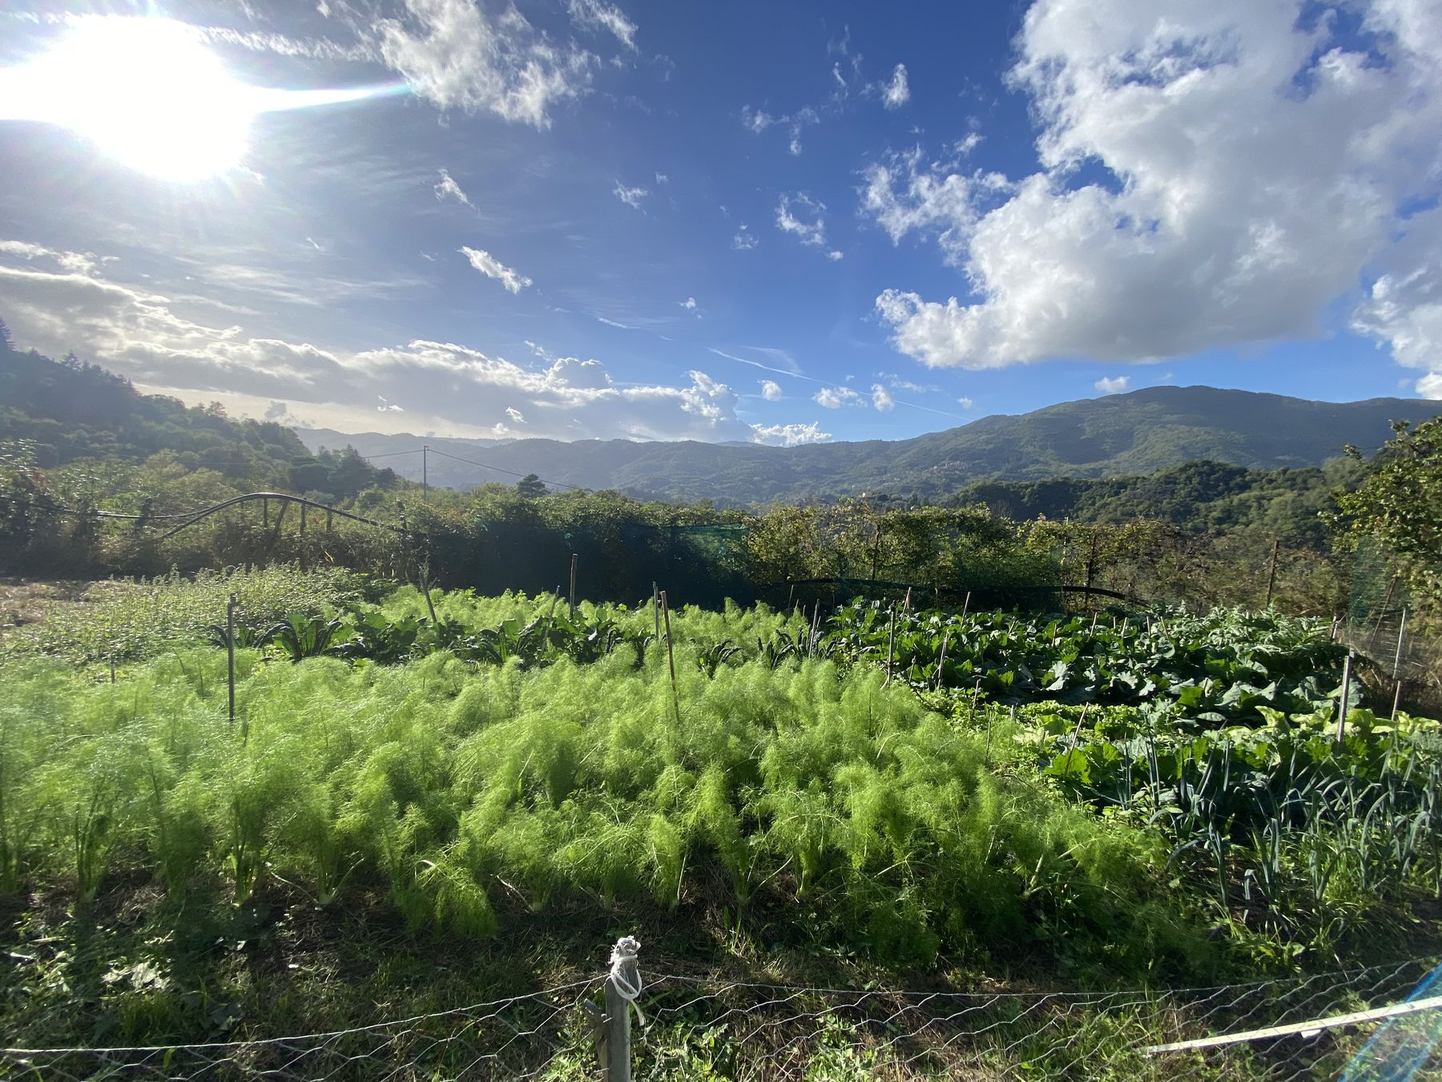
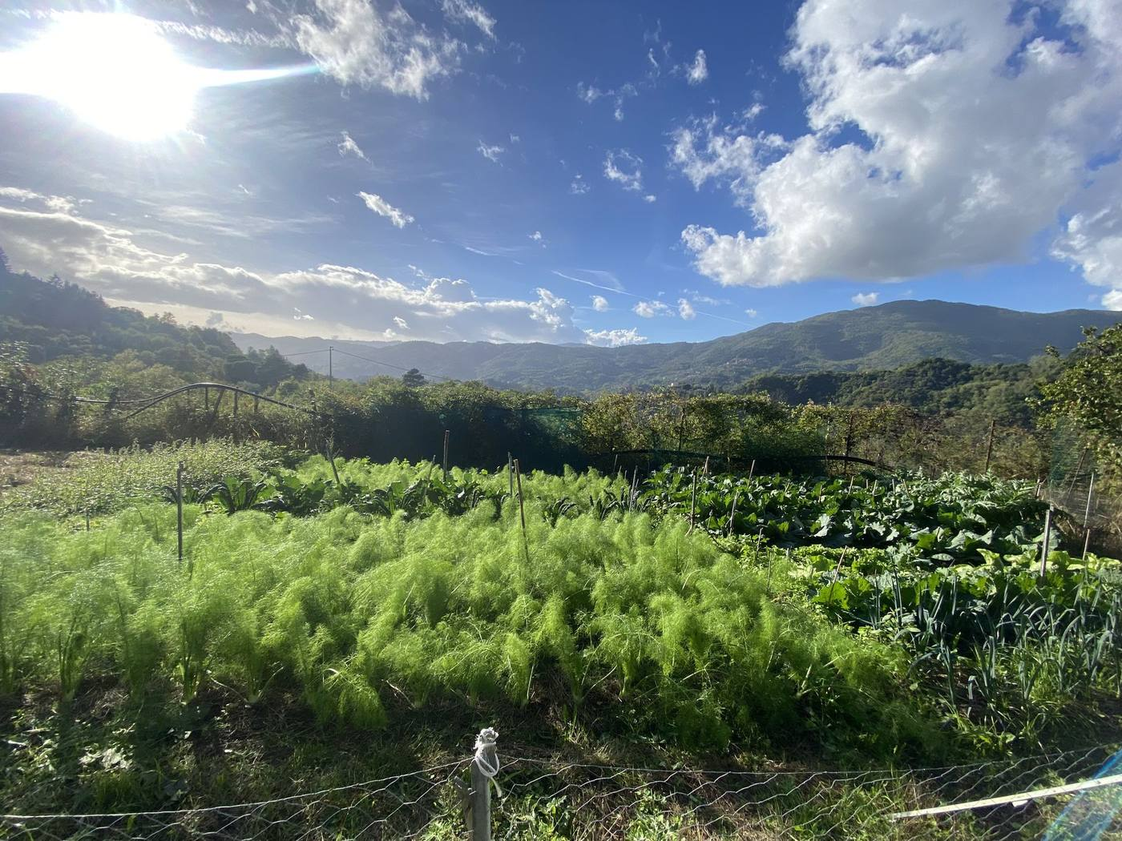
SEO e AEO: titoli e descrizioni più corti, anteprime con foto, nuove FAQ, numero WhatsApp
- Titoli entro ~60 caratteri e descrizioni entro ~150 su tutte le pagine
- og:image e twitter:card con la foto di testata di ogni pagina
- Home: titolo principale con il nome della fattoria; scheda LocalBusiness
  con logo, immagine e telefono
- Ordina: "Come funzionerà l'ordine" e 3 nuove FAQ (fondatori, visite,
  avvio della vendita), anche nei dati strutturati
- Contatti: sottotitolo "Come raggiungerci"
- Numero WhatsApp reale (+39 339 436 0559) in tutti i link e nel modulo
- Sitemap con data aggiornata; foto più pesanti alleggerite

Claude-Session: https://claude.ai/code/session_014oYX42uEHMXXJDsaJcGgyV

diff --git a/ordina.html b/ordina.html
@@ -3,15 +3,18 @@
 <head>
     <meta charset="UTF-8">
     <meta name="viewport" content="width=device-width, initial-scale=1.0">
-    <title>Cassetta di verdura a km 0, presto disponibile | Fattoria Il Bosco D'Obaca, Vellano</title>
-    <meta name="description" content="La cassetta di verdura, frutta e uova della Fattoria Il Bosco D'Obaca sarà presto disponibile: come funzionerà l'ordine, ritiro a Vellano o consegna in zona, nessun abbonamento. Domande frequenti.">
+    <title>Cassetta dell'orto, presto disponibile | Il Bosco D'Obaca</title>
+    <meta name="description" content="La cassetta di verdura, frutta e uova sarà presto disponibile: come funzionerà l'ordine, ritiro a Vellano o consegna in zona. Domande frequenti.">
     <link rel="canonical" href="https://eleonoranardini27-oss.github.io/Fattoria-Il-bosco-D-Obaca-Web/ordina.html">
     <meta property="og:type" content="website">
     <meta property="og:locale" content="it_IT">
     <meta property="og:site_name" content="Fattoria Il Bosco D'Obaca">
-    <meta property="og:title" content="Cassetta di verdura a km 0, presto disponibile | Fattoria Il Bosco D'Obaca, Vellano">
-    <meta property="og:description" content="La cassetta di verdura, frutta e uova della Fattoria Il Bosco D'Obaca sarà presto disponibile: come funzionerà l'ordine, ritiro a Vellano o consegna in zona, nessun abbonamento. Domande frequenti.">
+    <meta property="og:title" content="Cassetta dell'orto, presto disponibile | Il Bosco D'Obaca">
+    <meta property="og:description" content="La cassetta di verdura, frutta e uova sarà presto disponibile: come funzionerà l'ordine, ritiro a Vellano o consegna in zona. Domande frequenti.">
     <meta property="og:url" content="https://eleonoranardini27-oss.github.io/Fattoria-Il-bosco-D-Obaca-Web/ordina.html">
+    <meta property="og:image" content="https://eleonoranardini27-oss.github.io/Fattoria-Il-bosco-D-Obaca-Web/immagini%20sito/castagne.jpg">
+    <meta property="og:image:alt" content="Ricci aperti con castagne mature sui rami del castagneto">
+    <meta name="twitter:card" content="summary_large_image">
 
     <!-- Google Fonts -->
     <link rel="preconnect" href="https://fonts.googleapis.com">
@@ -41,6 +44,30 @@
       "acceptedAnswer": {
         "@type": "Answer",
         "text": "Non ancora: stiamo avviando la fattoria e la cassetta sarà presto disponibile. Seguici sui social o sul canale WhatsApp per sapere quando apriremo gli ordini."
+      }
+    },
+    {
+      "@type": "Question",
+      "name": "Chi sono Eleonora e Valentin?",
+      "acceptedAnswer": {
+        "@type": "Answer",
+        "text": "Sono i fondatori della Fattoria Il Bosco D'Obaca: vivono e lavorano a Vellano, nel cuore della Svizzera Pesciatina, dove stanno costruendo da zero la loro realtà agricola, rigenerando la terra e recuperando un antico castagneto abbandonato."
+      }
+    },
+    {
+      "@type": "Question",
+      "name": "Si può visitare la fattoria?",
+      "acceptedAnswer": {
+        "@type": "Answer",
+        "text": "Non ancora: per ora la fattoria non è aperta alle visite. Seguici su Instagram e Facebook per sapere quando potrai venire a trovarci."
+      }
+    },
+    {
+      "@type": "Question",
+      "name": "Quando partirà la vendita?",
+      "acceptedAnswer": {
+        "@type": "Answer",
+        "text": "Stiamo avviando la fattoria e la vendita non è ancora partita. Per sapere quando partiremo seguici su Instagram e Facebook o scrivici su WhatsApp."
       }
     },
     {
@@ -176,13 +203,13 @@
                 <div class="ordine" id="modulo">
                     <div class="ordine-info">
                         <span class="eyebrow">Presto disponibile</span>
-                        <h2 class="h3">Ordina la tua Cassetta della Settimana</h2>
+                        <h2 class="h3">Come funzionerà l'ordine</h2>
                         <p>Quando apriremo gli ordini basterà compilare il modulo: premendo "Invia ordine" si aprirà WhatsApp con il messaggio già pronto. Per ora il modulo non è ancora attivo: scrivici su WhatsApp per essere avvisato.</p>
                         <ul>
                             <li><strong>Nessun vincolo o abbonamento:</strong> ordinerai solo quando ne hai bisogno.</li>
                             <li><strong>Pagamento flessibile:</strong> in contanti o digitale (Satispay/POS) al ritiro o alla consegna.</li>
                         </ul>
-                        <a href="https://wa.me/393000000000?text=Ciao%2C%20vorrei%20essere%20avvisato%20quando%20aprirete%20gli%20ordini%20della%20cassetta!" target="_blank" rel="noopener noreferrer" class="btn btn-bosco"><i class="fa-brands fa-whatsapp" aria-hidden="true"></i> Avvisami su WhatsApp</a>
+                        <a href="https://wa.me/393394360559?text=Ciao%2C%20vorrei%20essere%20avvisato%20quando%20aprirete%20gli%20ordini%20della%20cassetta!" target="_blank" rel="noopener noreferrer" class="btn btn-bosco"><i class="fa-brands fa-whatsapp" aria-hidden="true"></i> Avvisami su WhatsApp</a>
                     </div>
 
                     <form id="order-form" aria-label="Modulo d'ordine (non ancora attivo)">
@@ -229,6 +256,18 @@
                         <div class="faq-item">
                             <h3 class="h4">Posso già ordinare la cassetta?</h3>
                             <p>Non ancora: stiamo avviando la fattoria e la cassetta sarà presto disponibile. Seguici sui social o sul canale WhatsApp per sapere quando apriremo gli ordini.</p>
+                        </div>
+                        <div class="faq-item">
+                            <h3 class="h4">Chi sono Eleonora e Valentin?</h3>
+                            <p>Sono i fondatori della Fattoria Il Bosco D'Obaca: vivono e lavorano a Vellano, nel cuore della Svizzera Pesciatina, dove stanno costruendo da zero la loro realtà agricola, rigenerando la terra e recuperando un antico castagneto abbandonato.</p>
+                        </div>
+                        <div class="faq-item">
+                            <h3 class="h4">Si può visitare la fattoria?</h3>
+                            <p>Non ancora: per ora la fattoria non è aperta alle visite. Seguici su Instagram e Facebook per sapere quando potrai venire a trovarci.</p>
+                        </div>
+                        <div class="faq-item">
+                            <h3 class="h4">Quando partirà la vendita?</h3>
+                            <p>Stiamo avviando la fattoria e la vendita non è ancora partita. Per sapere quando partiremo seguici su Instagram e Facebook o scrivici su WhatsApp.</p>
                         </div>
                         <div class="faq-item">
                             <h3 class="h4">Cosa c'è nella cassetta?</h3>
@@ -293,7 +332,7 @@
                 <div class="footer-col">
                     <span class="label">Seguici</span>
                     <div class="footer-nav">
-                        <a href="https://wa.me/393000000000" target="_blank" rel="noopener noreferrer">WhatsApp</a>
+                        <a href="https://wa.me/393394360559" target="_blank" rel="noopener noreferrer">WhatsApp</a>
                         <a href="https://www.instagram.com/ilboscodobaca/" target="_blank" rel="noopener noreferrer">Instagram</a>
                         <a href="https://www.facebook.com/profile.php?id=61595419419267" target="_blank" rel="noopener noreferrer">Facebook</a>
                     </div>

diff --git a/index.html b/index.html
@@ -3,15 +3,18 @@
 <head>
     <meta charset="UTF-8">
     <meta name="viewport" content="width=device-width, initial-scale=1.0">
-    <title>Fattoria Il Bosco D'Obaca | Cassetta di verdura, frutta e uova a km 0 a Vellano (Pescia)</title>
-    <meta name="description" content="Fattoria a Vellano, nella Svizzera Pesciatina (Pescia, PT): ortaggi di stagione, frutta, more e uova colorate di galline allevate all'aperto. Cassetta settimanale presto disponibile, con ritiro in fattoria o consegna in zona.">
+    <title>Fattoria Il Bosco D'Obaca: orto e uova colorate a Vellano</title>
+    <meta name="description" content="Fattoria a Vellano, Svizzera Pesciatina (Pescia, PT): ortaggi di stagione, frutta, more e uova colorate. Cassetta settimanale presto disponibile.">
     <link rel="canonical" href="https://eleonoranardini27-oss.github.io/Fattoria-Il-bosco-D-Obaca-Web/">
     <meta property="og:type" content="website">
     <meta property="og:locale" content="it_IT">
     <meta property="og:site_name" content="Fattoria Il Bosco D'Obaca">
-    <meta property="og:title" content="Fattoria Il Bosco D'Obaca | Cassetta di verdura, frutta e uova a km 0 a Vellano (Pescia)">
-    <meta property="og:description" content="Fattoria a Vellano, nella Svizzera Pesciatina (Pescia, PT): ortaggi di stagione, frutta, more e uova colorate di galline allevate all'aperto. Cassetta settimanale presto disponibile, con ritiro in fattoria o consegna in zona.">
+    <meta property="og:title" content="Fattoria Il Bosco D'Obaca: orto e uova colorate a Vellano">
+    <meta property="og:description" content="Fattoria a Vellano, Svizzera Pesciatina (Pescia, PT): ortaggi di stagione, frutta, more e uova colorate. Cassetta settimanale presto disponibile.">
     <meta property="og:url" content="https://eleonoranardini27-oss.github.io/Fattoria-Il-bosco-D-Obaca-Web/">
+    <meta property="og:image" content="https://eleonoranardini27-oss.github.io/Fattoria-Il-bosco-D-Obaca-Web/immagini%20sito/pascolo.jpg">
+    <meta property="og:image:alt" content="Animali al pascolo nei prati della fattoria, con i boschi e le colline della Svizzera Pesciatina sullo sfondo">
+    <meta name="twitter:card" content="summary_large_image">
 
     <!-- Google Fonts -->
     <link rel="preconnect" href="https://fonts.googleapis.com">
@@ -49,6 +52,9 @@
     { "@type": "Person", "name": "Eleonora" },
     { "@type": "Person", "name": "Valentin" }
   ],
+  "logo": "https://eleonoranardini27-oss.github.io/Fattoria-Il-bosco-D-Obaca-Web/logo.jpeg",
+  "image": "https://eleonoranardini27-oss.github.io/Fattoria-Il-bosco-D-Obaca-Web/immagini%20sito/pascolo.jpg",
+  "telephone": "+39 339 436 0559",
   "vatID": "IT02138000472",
   "sameAs": [
     "https://www.instagram.com/ilboscodobaca/",
@@ -103,7 +109,7 @@
                     <img class="hero-bg" src="immagini%20sito/pascolo.jpg" alt="Animali al pascolo nei prati della fattoria, con i boschi e le colline della Svizzera Pesciatina sullo sfondo">
                     <img class="hero-logo" src="logo.jpeg" alt="Logo Fattoria Il Bosco D'Obaca, Vellano – Svizzera Pesciatina">
                     <span class="eyebrow oro">Vellano · Svizzera Pesciatina</span>
-                    <h1>Benvenuti in Fattoria: <em>cibi sani, genuini e coltivati secondo natura</em></h1>
+                    <h1>Benvenuti alla Fattoria Il Bosco D'Obaca: <em>cibi sani e genuini, coltivati secondo natura</em></h1>
                     <p>Siamo una piccola fattoria a Vellano, nella Svizzera Pesciatina (Pescia, PT). Coltiviamo ortaggi di stagione, frutta e more con metodi naturali e alleviamo galline all'aperto che depongono uova colorate. Presto potrai ordinare la cassetta settimanale e ritirarla in fattoria o riceverla a casa.</p>
                     <div class="hero-actions">
                         <a href="ordina.html" class="btn btn-oro">Cassetta presto disponibile</a>
@@ -274,7 +280,7 @@
                     </div>
                     <div>
                         <span class="label">WhatsApp</span>
-                        <a class="valore" href="https://wa.me/393000000000" target="_blank" rel="noopener noreferrer">Scrivici un messaggio</a>
+                        <a class="valore" href="https://wa.me/393394360559" target="_blank" rel="noopener noreferrer">Scrivici un messaggio</a>
                     </div>
                 </div>
             </div>
@@ -310,7 +316,7 @@
                 <div class="footer-col">
                     <span class="label">Seguici</span>
                     <div class="footer-nav">
-                        <a href="https://wa.me/393000000000" target="_blank" rel="noopener noreferrer">WhatsApp</a>
+                        <a href="https://wa.me/393394360559" target="_blank" rel="noopener noreferrer">WhatsApp</a>
                         <a href="https://www.instagram.com/ilboscodobaca/" target="_blank" rel="noopener noreferrer">Instagram</a>
                         <a href="https://www.facebook.com/profile.php?id=61595419419267" target="_blank" rel="noopener noreferrer">Facebook</a>
                     </div>

diff --git a/contatti.html b/contatti.html
@@ -3,15 +3,18 @@
 <head>
     <meta charset="UTF-8">
     <meta name="viewport" content="width=device-width, initial-scale=1.0">
-    <title>Contatti e dove siamo: Via Obaca 4, Vellano (Pescia) | Fattoria Il Bosco D'Obaca</title>
+    <title>Dove siamo: Via Obaca 4, Vellano | Il Bosco D'Obaca</title>
     <meta name="description" content="Come raggiungere la Fattoria Il Bosco D'Obaca in Via Obaca 4 a Vellano (Pescia, PT): mappa, WhatsApp, ritiro in fattoria e canali social.">
     <link rel="canonical" href="https://eleonoranardini27-oss.github.io/Fattoria-Il-bosco-D-Obaca-Web/contatti.html">
     <meta property="og:type" content="website">
     <meta property="og:locale" content="it_IT">
     <meta property="og:site_name" content="Fattoria Il Bosco D'Obaca">
-    <meta property="og:title" content="Contatti e dove siamo: Via Obaca 4, Vellano (Pescia) | Fattoria Il Bosco D'Obaca">
+    <meta property="og:title" content="Dove siamo: Via Obaca 4, Vellano | Il Bosco D'Obaca">
     <meta property="og:description" content="Come raggiungere la Fattoria Il Bosco D'Obaca in Via Obaca 4 a Vellano (Pescia, PT): mappa, WhatsApp, ritiro in fattoria e canali social.">
     <meta property="og:url" content="https://eleonoranardini27-oss.github.io/Fattoria-Il-bosco-D-Obaca-Web/contatti.html">
+    <meta property="og:image" content="https://eleonoranardini27-oss.github.io/Fattoria-Il-bosco-D-Obaca-Web/immagini%20sito/capre%20pascolo.jpg">
+    <meta property="og:image:alt" content="Le capre al pascolo sul prato ai margini del bosco">
+    <meta name="twitter:card" content="summary_large_image">
 
     <!-- Google Fonts -->
     <link rel="preconnect" href="https://fonts.googleapis.com">
@@ -76,7 +79,7 @@
             <div class="wrap contatti">
                 <div class="contatti-testo">
                     <span class="eyebrow">Dove siamo</span>
-                    <h2>Via Obaca 4, Vellano (Pescia)</h2>
+                    <h2>Come raggiungerci</h2>
                     <p>La nostra fattoria si trova a <strong>Vellano, in Via Obaca</strong>, tra le colline della Svizzera Pesciatina. Per ora la fattoria non è ancora aperta alle visite: per informazioni sulla cassetta dell'orto, presto disponibile, scrivici su WhatsApp o seguici sui social.</p>
                     <iframe class="mappa" title="Mappa: Fattoria Il Bosco D'Obaca, Via Obaca 4, Vellano" src="https://www.google.com/maps?q=Via+Obaca+4,+51012+Vellano+Pescia+PT&amp;output=embed" loading="lazy" referrerpolicy="no-referrer-when-downgrade"></iframe>
                     <a class="link-more" href="https://www.google.com/maps/search/?api=1&amp;query=Via+Obaca+4,+51012+Vellano+Pescia+PT" target="_blank" rel="noopener noreferrer">Apri in Google Maps →</a>
@@ -88,7 +91,7 @@
                     </div>
                     <div>
                         <span class="label">WhatsApp e canale</span>
-                        <a class="valore" href="https://wa.me/393000000000" target="_blank" rel="noopener noreferrer">Scrivici subito un messaggio veloce</a>
+                        <a class="valore" href="https://wa.me/393394360559" target="_blank" rel="noopener noreferrer">Scrivici subito un messaggio veloce</a>
                     </div>
                     <div>
                         <span class="label">Ritiro in fattoria</span>
@@ -151,7 +154,7 @@
                 <div class="footer-col">
                     <span class="label">Seguici</span>
                     <div class="footer-nav">
-                        <a href="https://wa.me/393000000000" target="_blank" rel="noopener noreferrer">WhatsApp</a>
+                        <a href="https://wa.me/393394360559" target="_blank" rel="noopener noreferrer">WhatsApp</a>
                         <a href="https://www.instagram.com/ilboscodobaca/" target="_blank" rel="noopener noreferrer">Instagram</a>
                         <a href="https://www.facebook.com/profile.php?id=61595419419267" target="_blank" rel="noopener noreferrer">Facebook</a>
                     </div>

diff --git a/animali.html b/animali.html
@@ -3,15 +3,18 @@
 <head>
     <meta charset="UTF-8">
     <meta name="viewport" content="width=device-width, initial-scale=1.0">
-    <title>I nostri animali: galline, capre, oche, gatti, Balù e Circe | Fattoria Il Bosco D'Obaca</title>
-    <meta name="description" content="Conosci gli animali della Fattoria Il Bosco D'Obaca a Vellano: il gallo Achille e le sue galline dalle uova colorate, le capre Bianchina e Nerina, le oche Nedo e Betti, le gattine Pesca e Susina, il cane Balù e la cucciola Circe.">
+    <title>Gli animali della fattoria | Il Bosco D'Obaca, Vellano</title>
+    <meta name="description" content="Gli animali della Fattoria Il Bosco D'Obaca a Vellano: il gallo Achille e le galline, le capre, le oche, le gattine, Balù e la cucciola Circe.">
     <link rel="canonical" href="https://eleonoranardini27-oss.github.io/Fattoria-Il-bosco-D-Obaca-Web/animali.html">
     <meta property="og:type" content="website">
     <meta property="og:locale" content="it_IT">
     <meta property="og:site_name" content="Fattoria Il Bosco D'Obaca">
-    <meta property="og:title" content="I nostri animali: galline, capre, oche, gatti, Balù e Circe | Fattoria Il Bosco D'Obaca">
-    <meta property="og:description" content="Conosci gli animali della Fattoria Il Bosco D'Obaca a Vellano: il gallo Achille e le sue galline dalle uova colorate, le capre Bianchina e Nerina, le oche Nedo e Betti, le gattine Pesca e Susina, il cane Balù e la cucciola Circe.">
+    <meta property="og:title" content="Gli animali della fattoria | Il Bosco D'Obaca, Vellano">
+    <meta property="og:description" content="Gli animali della Fattoria Il Bosco D'Obaca a Vellano: il gallo Achille e le galline, le capre, le oche, le gattine, Balù e la cucciola Circe.">
     <meta property="og:url" content="https://eleonoranardini27-oss.github.io/Fattoria-Il-bosco-D-Obaca-Web/animali.html">
+    <meta property="og:image" content="https://eleonoranardini27-oss.github.io/Fattoria-Il-bosco-D-Obaca-Web/immagini%20sito/galline.jpg">
+    <meta property="og:image:alt" content="Le galline e il gallo Achille nel recinto all'aperto">
+    <meta name="twitter:card" content="summary_large_image">
 
     <!-- Google Fonts -->
     <link rel="preconnect" href="https://fonts.googleapis.com">
@@ -177,7 +180,7 @@
                 <div class="footer-col">
                     <span class="label">Seguici</span>
                     <div class="footer-nav">
-                        <a href="https://wa.me/393000000000" target="_blank" rel="noopener noreferrer">WhatsApp</a>
+                        <a href="https://wa.me/393394360559" target="_blank" rel="noopener noreferrer">WhatsApp</a>
                         <a href="https://www.instagram.com/ilboscodobaca/" target="_blank" rel="noopener noreferrer">Instagram</a>
                         <a href="https://www.facebook.com/profile.php?id=61595419419267" target="_blank" rel="noopener noreferrer">Facebook</a>
                     </div>

diff --git a/prodotti.html b/prodotti.html
@@ -3,15 +3,18 @@
 <head>
     <meta charset="UTF-8">
     <meta name="viewport" content="width=device-width, initial-scale=1.0">
-    <title>Prodotti: cassetta dell'orto, frutta e uova colorate a km 0 | Fattoria Il Bosco D'Obaca</title>
-    <meta name="description" content="Cassetta di verdura di stagione (presto disponibile), frutta, more e uova colorate a km 0 dalla Fattoria Il Bosco D'Obaca di Vellano (Pescia). Calendario di stagione e guida gratuita alle uova colorate.">
+    <title>Ortaggi, frutta e uova colorate a km 0 | Il Bosco D'Obaca</title>
+    <meta name="description" content="Cassetta di verdura (presto disponibile), frutta, more e uova colorate a km 0 da Vellano. Calendario di stagione e guida gratuita alle uova.">
     <link rel="canonical" href="https://eleonoranardini27-oss.github.io/Fattoria-Il-bosco-D-Obaca-Web/prodotti.html">
     <meta property="og:type" content="website">
     <meta property="og:locale" content="it_IT">
     <meta property="og:site_name" content="Fattoria Il Bosco D'Obaca">
-    <meta property="og:title" content="Prodotti: cassetta dell'orto, frutta e uova colorate a km 0 | Fattoria Il Bosco D'Obaca">
-    <meta property="og:description" content="Cassetta di verdura di stagione (presto disponibile), frutta, more e uova colorate a km 0 dalla Fattoria Il Bosco D'Obaca di Vellano (Pescia). Calendario di stagione e guida gratuita alle uova colorate.">
+    <meta property="og:title" content="Ortaggi, frutta e uova colorate a km 0 | Il Bosco D'Obaca">
+    <meta property="og:description" content="Cassetta di verdura (presto disponibile), frutta, more e uova colorate a km 0 da Vellano. Calendario di stagione e guida gratuita alle uova.">
     <meta property="og:url" content="https://eleonoranardini27-oss.github.io/Fattoria-Il-bosco-D-Obaca-Web/prodotti.html">
+    <meta property="og:image" content="https://eleonoranardini27-oss.github.io/Fattoria-Il-bosco-D-Obaca-Web/immagini%20sito/insalata.jpg">
+    <meta property="og:image:alt" content="Cespo di lattuga nell'orto pacciamato con fieno">
+    <meta name="twitter:card" content="summary_large_image">
 
     <!-- Google Fonts -->
     <link rel="preconnect" href="https://fonts.googleapis.com">
@@ -262,7 +265,7 @@
                 <div class="footer-col">
                     <span class="label">Seguici</span>
                     <div class="footer-nav">
-                        <a href="https://wa.me/393000000000" target="_blank" rel="noopener noreferrer">WhatsApp</a>
+                        <a href="https://wa.me/393394360559" target="_blank" rel="noopener noreferrer">WhatsApp</a>
                         <a href="https://www.instagram.com/ilboscodobaca/" target="_blank" rel="noopener noreferrer">Instagram</a>
                         <a href="https://www.facebook.com/profile.php?id=61595419419267" target="_blank" rel="noopener noreferrer">Facebook</a>
                     </div>

diff --git a/fattoria.html b/fattoria.html
@@ -4,14 +4,17 @@
     <meta charset="UTF-8">
     <meta name="viewport" content="width=device-width, initial-scale=1.0">
     <title>Chi siamo e come lavoriamo | Fattoria Il Bosco D'Obaca, Vellano</title>
-    <meta name="description" content="Eleonora e Valentin raccontano la Fattoria Il Bosco D'Obaca a Vellano: orto naturale, pollaio all'aperto, recupero del castagneto e i progetti per la stalla e il caseificio.">
+    <meta name="description" content="Eleonora e Valentin raccontano la fattoria a Vellano: orto naturale, pollaio all'aperto, recupero del castagneto e progetti per stalla e caseificio.">
     <link rel="canonical" href="https://eleonoranardini27-oss.github.io/Fattoria-Il-bosco-D-Obaca-Web/fattoria.html">
     <meta property="og:type" content="website">
     <meta property="og:locale" content="it_IT">
     <meta property="og:site_name" content="Fattoria Il Bosco D'Obaca">
     <meta property="og:title" content="Chi siamo e come lavoriamo | Fattoria Il Bosco D'Obaca, Vellano">
-    <meta property="og:description" content="Eleonora e Valentin raccontano la Fattoria Il Bosco D'Obaca a Vellano: orto naturale, pollaio all'aperto, recupero del castagneto e i progetti per la stalla e il caseificio.">
+    <meta property="og:description" content="Eleonora e Valentin raccontano la fattoria a Vellano: orto naturale, pollaio all'aperto, recupero del castagneto e progetti per stalla e caseificio.">
     <meta property="og:url" content="https://eleonoranardini27-oss.github.io/Fattoria-Il-bosco-D-Obaca-Web/fattoria.html">
+    <meta property="og:image" content="https://eleonoranardini27-oss.github.io/Fattoria-Il-bosco-D-Obaca-Web/immagini%20sito/orto%20finocchi.jpg">
+    <meta property="og:image:alt" content="L'orto della fattoria con finocchi, cavoli e porri sotto il sole, e le colline della Svizzera Pesciatina sullo sfondo">
+    <meta name="twitter:card" content="summary_large_image">
 
     <!-- Google Fonts -->
     <link rel="preconnect" href="https://fonts.googleapis.com">
@@ -200,7 +203,7 @@
                 <div class="footer-col">
                     <span class="label">Seguici</span>
                     <div class="footer-nav">
-                        <a href="https://wa.me/393000000000" target="_blank" rel="noopener noreferrer">WhatsApp</a>
+                        <a href="https://wa.me/393394360559" target="_blank" rel="noopener noreferrer">WhatsApp</a>
                         <a href="https://www.instagram.com/ilboscodobaca/" target="_blank" rel="noopener noreferrer">Instagram</a>
                         <a href="https://www.facebook.com/profile.php?id=61595419419267" target="_blank" rel="noopener noreferrer">Facebook</a>
                     </div>

diff --git a/assets/script.js b/assets/script.js
@@ -1,5 +1,5 @@
 // Numero WhatsApp della fattoria (prefisso internazionale, senza + e senza spazi)
-const WHATSAPP = '393000000000';
+const WHATSAPP = '393394360559';
 
 // All'apertura le pagine partono sempre dall'inizio, invece di tornare
 // al punto in cui si era lasciata la pagina
